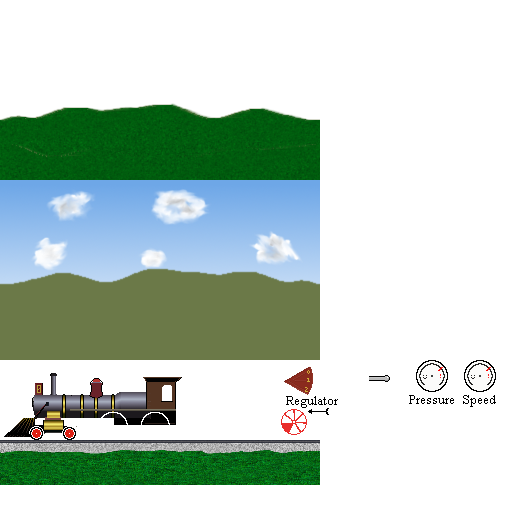
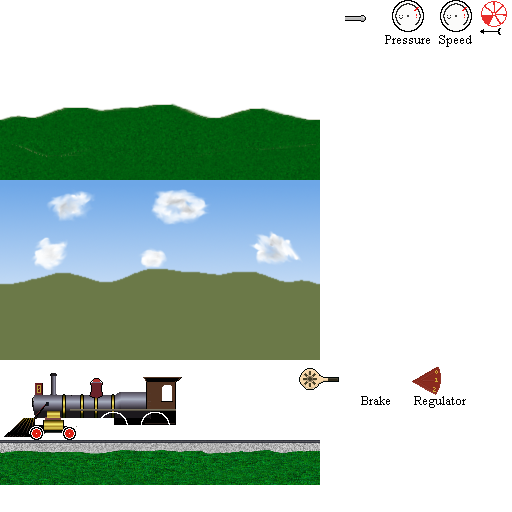
Added a brake, doesn't do any thing yet

diff --git a/game_view.py b/game_view.py
@@ -157,6 +157,67 @@ class Regulator(object):
             a = self.start_angle
         self.Update(a)
 
+class Brake(object):
+    name = 'brake_text.png'
+    knob_name = 'brake_handle.png'
+    start_pos = Point(0.5,0.72)
+    start_angle = 0.6
+    end_angle   = -0.27
+    def __init__(self, train):
+        self.train = train
+        self.quad = drawing.Quad(globals.screen_texture_buffer,tc = globals.atlas.TextureSpriteCoords(self.name))
+        self.size = globals.atlas.SubimageSprite(self.name).size
+        self.knob_quad = drawing.Quad(globals.screen_texture_buffer,tc = globals.atlas.TextureSpriteCoords(self.knob_name))
+        self.knob_coords = ((-30,-29),(-30,19),(34,19),(34,-29))
+        self.knob_settings = (0.45,0.13,-0.25)
+        bl = self.start_pos*globals.screen
+        tr = bl + self.size
+        self.knob_pos = bl + Point(30,29)
+        self.pos = bl
+        self.quad.SetVertices(bl,tr,0.6)
+        self.level = 0
+        self.Update(self.start_angle)
+
+    def snap(self):
+        #choose the nearest setting and switch to it
+        self.Update(self.start_angle)
+        #possibly play sound here
+
+
+    def Update(self, angle):
+        new_angle = angle - 0.20
+        self.current_angle = angle
+        print new_angle
+        vertices = [0,0,0,0]
+        for i,coord in enumerate(self.knob_coords):
+            p = coord[0] + coord[1]*1j
+            distance,old_angle = cmath.polar(p)
+            c = cmath.rect(distance,old_angle + new_angle)
+            vertices[i] = self.knob_pos + Point(c.real, c.imag)
+
+        self.knob_quad.SetAllVertices(vertices, 0.5)
+
+    def __contains__(self, item):
+        return (item.x >= self.pos.x) and (item.x < self.pos.x + self.size.x) and (item.y >= self.pos.y) and (item.y < self.pos.y + self.size.y)
+
+    def click(self, pos):
+        diff = pos - (self.knob_pos)
+        p = diff.x + diff.y*1j
+        r,a = cmath.polar(p)
+        if r > 18 and r < 29 and a > -0.45 and a < 0.6:
+            return True, self
+        return False, False
+
+    def motion(self, pos):
+        diff = pos - (self.knob_pos - Point(0,4))
+        p = diff.x + diff.y*1j
+        r,a = cmath.polar(p)
+        if a < self.end_angle:
+            a = self.end_angle
+        if a > self.start_angle:
+            a = self.start_angle
+        self.Update(a)
+
 class Train(object):
     max_speed = 20
     safe_speed = 13
@@ -173,6 +234,7 @@ class Train(object):
         self.pressure_gauge = PressureGauge(self)
         self.speedo = Speedo(self)
         self.regulator = Regulator(self)
+        self.brake = Brake(self)
         self.wheels = [Wheel(20+x,y,r) for (x,y,r) in ((99,43,0),(141,43,math.pi))]
         self.move_direction = 0
         #self.wheel = drawing.Quad(globals.quad_buffer,tc = globals.atlas.TextureSpriteCoords(os.path.join('wheel.png')))
@@ -187,7 +249,7 @@ class Train(object):
         #if self.move_direction:
         #    self.speed += self.move_direction*elapsed*10
         #Burn fuel in the engine
-        print 'coal : %4.2f, pressure : %4.2f, speed : %4.2f' % (self.coal, self.pressure, self.speed)
+        #print 'coal : %4.2f, pressure : %4.2f, speed : %4.2f' % (self.coal, self.pressure, self.speed)
         self.burn(elapsed)
 
         if self.steam_flow > 0:
@@ -243,13 +305,15 @@ class Train(object):
             return False, False
         if pos in self.regulator:
             return self.regulator.click(pos)
+        elif pos in self.brake:
+                return self.brake.click(pos)
         return False, False
 
     def mouse_button_up(self, pos, button):
         if button != 1:
             return False, False
-        if globals.dragging is self.regulator:
-            self.regulator.snap()
+        if globals.dragging:
+            globals.dragging.snap()
             return True,False
         return False,False
 
